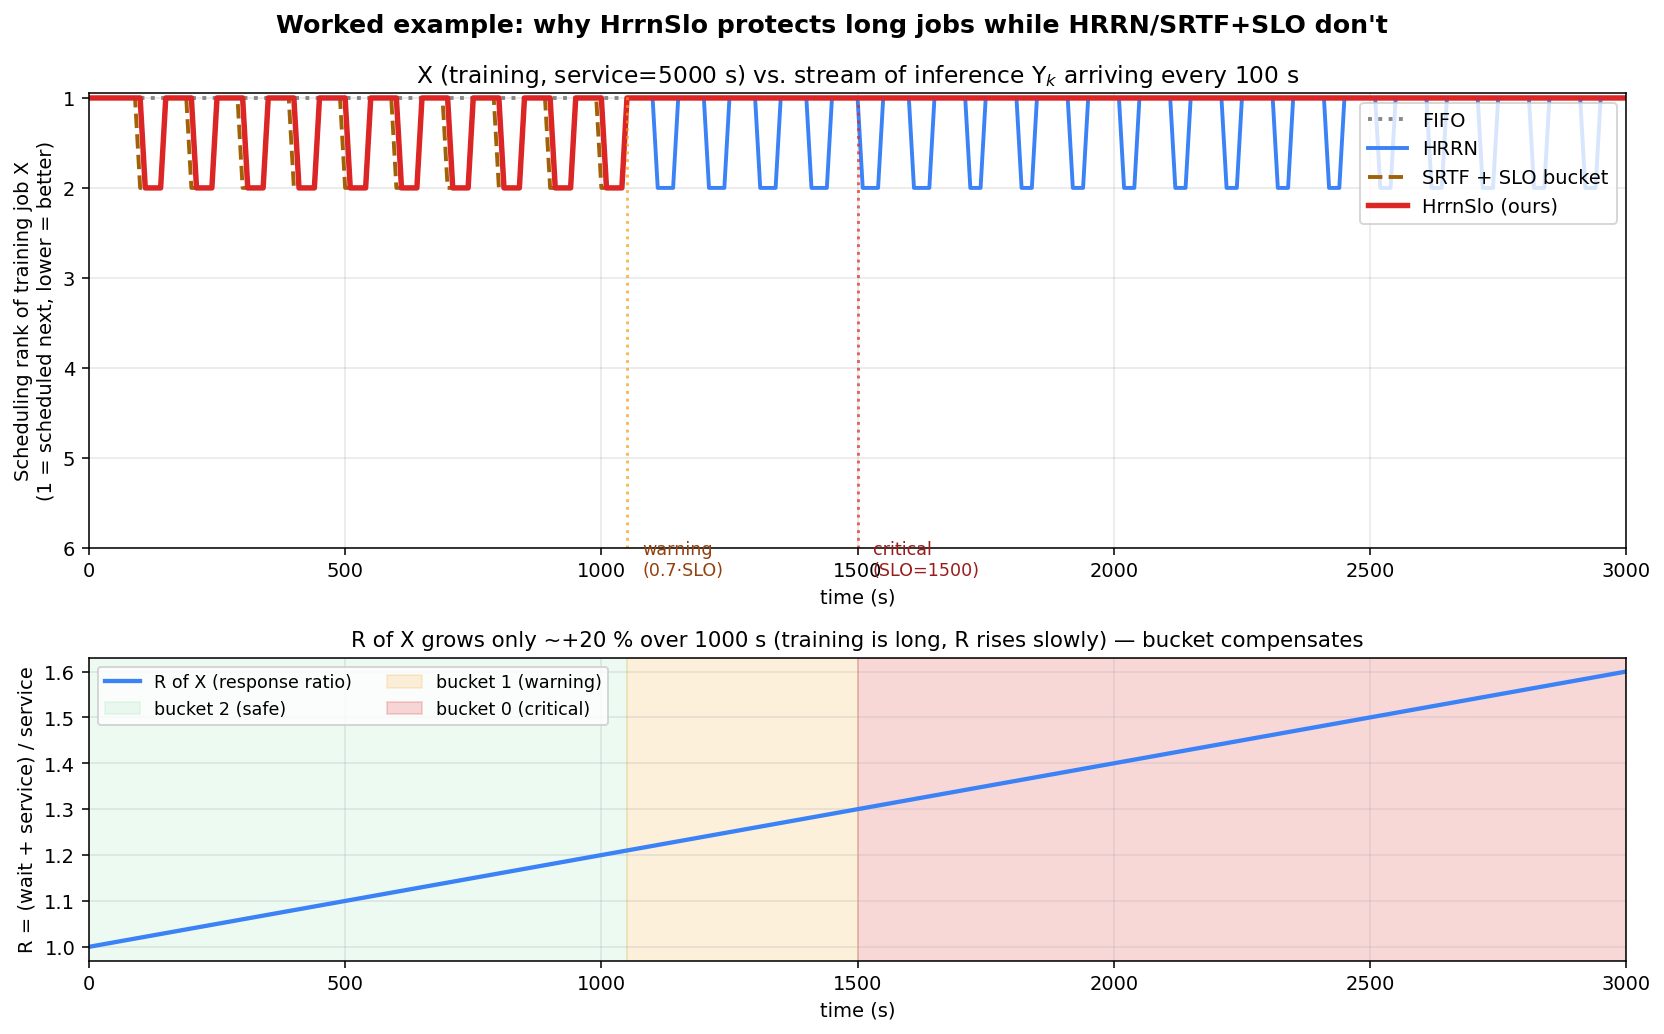
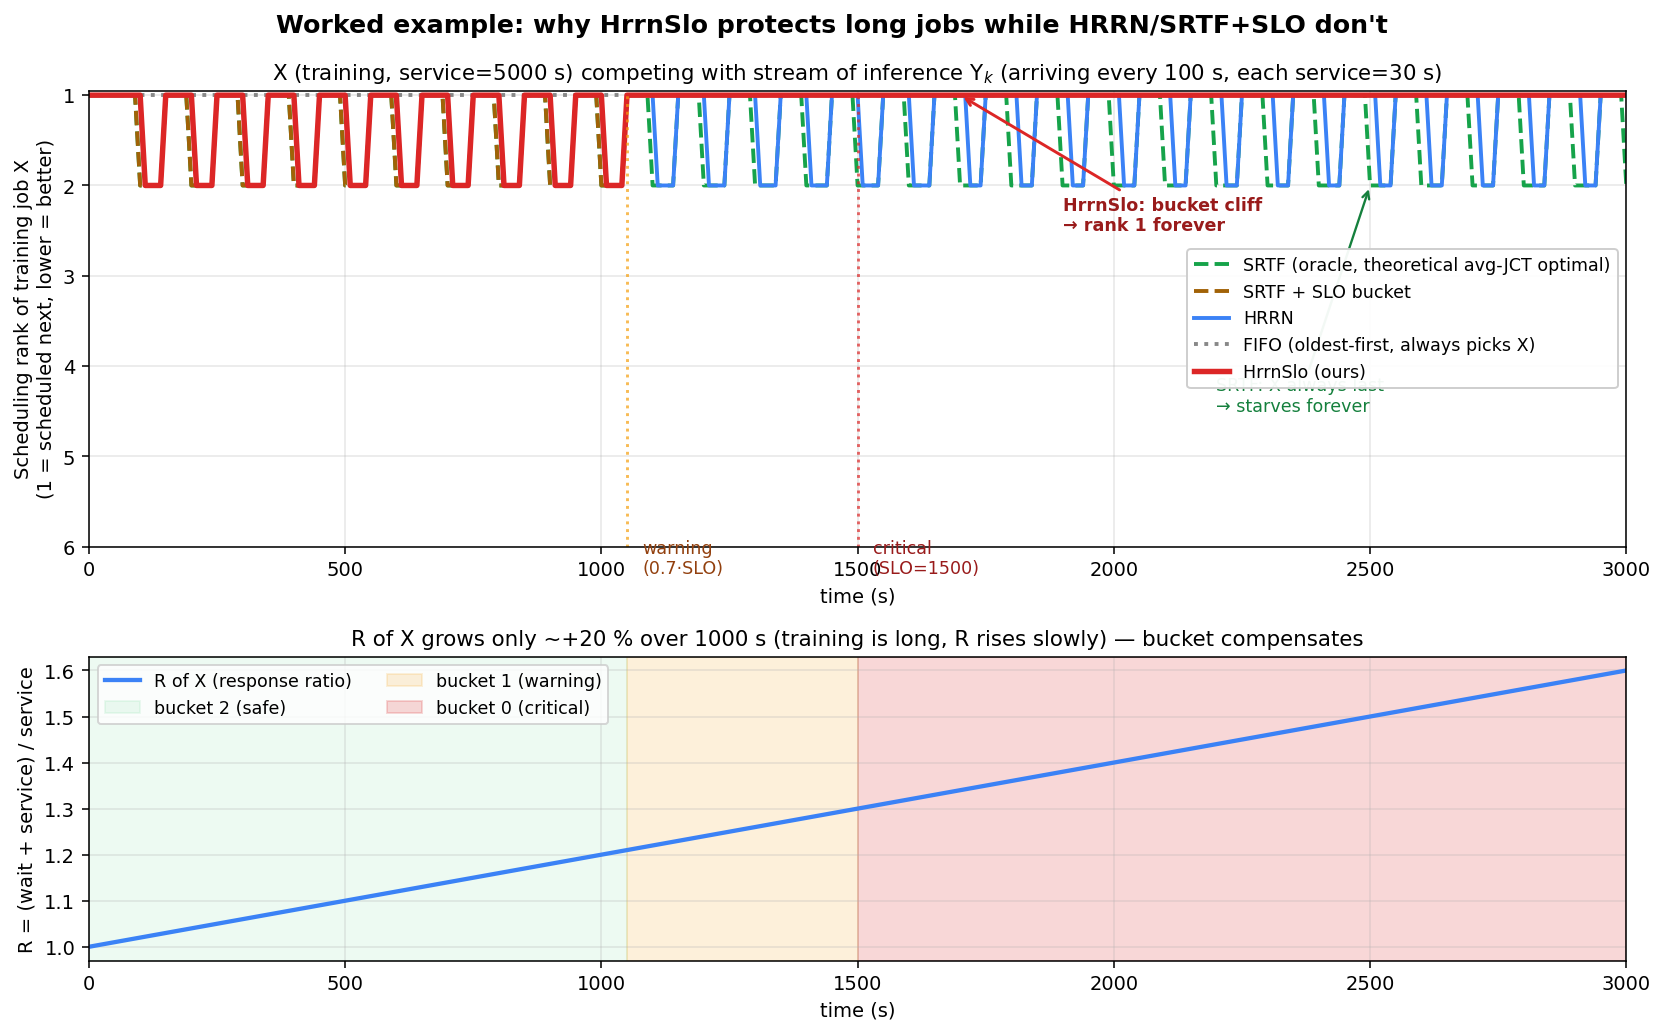
Walkthrough figure: add SRTF (theoretical avg-JCT optimal)
User feedback: comparison needed the theoretical optimum to
properly contextualize the trade-offs. Added pure SRTF (oracle,
no bucket) which is the closed-batch avg-JCT optimum.

Figure change (figures/hrrnslo_walkthrough.png):
- New green dashed line for SRTF (oracle)
- SRTF puts X at rank-last forever — visual demonstration that
  the "theoretical optimum" starves X in open systems
- SRTF and SRTF+SLO nearly overlap, showing bucket alone doesn't
  rescue big jobs when secondary key is still service-based
- Added explicit annotations: "SRTF: X always last → starves
  forever" and "HrrnSlo: bucket cliff → rank 1 forever"

Narrative updates (deck §6b, report §4.4.7):
- Five-algorithm comparison table replaces four
- New trade-off matrix: short-job efficiency vs. long-job
  protection, showing each algorithm's failure mode and how
  HrrnSlo achieves both
- Explicit framing: SRTF is theoretical optimum that breaks in
  open mixed workloads; HrrnSlo combines SRTF's efficiency
  (via HRRN's R) with FIFO's fairness (via bucket cliff)

diff --git a/docs/report_v2/deck.html b/docs/report_v2/deck.html
@@ -1,7 +1,5 @@
 <!DOCTYPE html>
-<html lang="ko"><head>
-<meta charset="utf-8">
-<title>젠슨황팀 — 최종 발표 Deck</title>
+<html lang="ko"><head><meta charset="utf-8"><title>젠슨황팀 — 최종 발표 Deck</title>
 <style>
 body { max-width: 1100px; margin: 0 auto; padding: 32px 48px;
        font-family: -apple-system, BlinkMacSystemFont, "Apple SD Gothic Neo",
@@ -19,7 +17,7 @@ table { border-collapse: collapse; width: 100%; margin: 16px 0;
          background: white; box-shadow: 0 1px 3px rgba(0,0,0,0.05);
          border-radius: 6px; overflow: hidden; }
 th, td { padding: 10px 14px; border-bottom: 1px solid #e5e7eb; text-align: left; font-size: 0.95em; }
-th { background: #1e293b; color: #f1f5f9; font-weight: 600; letter-spacing: 0.02em; }
+th { background: #1e293b; color: #f1f5f9; font-weight: 600; }
 tr:nth-child(even) td { background: #f8fafc; }
 tr:hover td { background: #fef3c7; }
 img { max-width: 100%; border: 1px solid #e5e7eb; border-radius: 6px;
@@ -32,19 +30,13 @@ code { background: #fef3c7; padding: 2px 7px; border-radius: 3px;
 pre { background: #1e293b; color: #e2e8f0; padding: 18px; border-radius: 8px;
        overflow-x: auto; font-size: 0.88em; line-height: 1.55; }
 pre code { background: transparent; padding: 0; color: inherit; }
-ul, ol { padding-left: 1.5em; }
-li { margin: 4px 0; }
+ul, ol { padding-left: 1.5em; } li { margin: 4px 0; }
 strong { color: #0f172a; }
 a { color: #2563eb; text-decoration: none; border-bottom: 1px dotted #93c5fd; }
 a:hover { background: #fef3c7; border-bottom-style: solid; }
-@media print {
-  body { background: white; padding: 16px 32px; }
-  h2 { page-break-before: always; }
-  hr { display: none; }
-  img { box-shadow: none; }
-}
-</style>
-</head><body>
+@media print { body { background: white; padding: 16px 32px; }
+  h2 { page-break-before: always; } hr { display: none; } img { box-shadow: none; } }
+</style></head><body>
 <h1 id="gpu-클러스터-스케줄링-추론훈련-혼합-환경에서의-slo-aware-알고리즘">GPU 클러스터 스케줄링: 추론·훈련 혼합 환경에서의 SLO-aware 알고리즘</h1>
 <p><strong>26-1 컴퓨터종합설계 · 젠슨황팀</strong> (윤영준, 박준열, 전현성, 부광민)</p>
 <p>발표용 요약 deck · 본 보고서: <a href="report.md">report.md</a></p>
@@ -350,15 +342,53 @@ bucket 0 (critical): wait ≥ SLO            → 즉시 실행 보장</code></pr
 <p>→ X 가 1500 s 기다리면 bucket 0 → 다른 모든 잡보다 절대 우선 → <strong>starvation 불가능</strong>.</p>
 <h3 id="정확히-무엇이-일어나는가-worked-example">정확히 무엇이 일어나는가 (worked example)</h3>
 <p><img src="figures/hrrnslo_walkthrough.png" alt="Worked example" /></p>
-<p><strong>위 그림 panel (a)</strong>: 동일 시나리오 (X 1 개 + 매 100 s 마다 Y_k 도착) 에서 4 알고리즘이 X 에게 부여하는 rank (낮을수록 곧 실행됨).</p>
+<p><strong>위 그림 panel (a)</strong>: 동일 시나리오 (X 1 개 + 매 100 s 마다 Y_k 도착) 에서 <strong>5 알고리즘</strong> 이 X 에게 부여하는 rank (낮을수록 곧 실행됨).</p>
 <ul>
-<li><strong>FIFO</strong> (회색 점선): X 가 항상 가장 오래되어 rank 1 — 짧은 추론들이 모두 막힘 (FIFO 의 head-of-line blocking)</li>
-<li><strong>HRRN</strong> (파랑): X 는 거의 항상 rank 4~6. 짧은 Y_k 들이 빠른 R 증가로 X 압도</li>
-<li><strong>SRTF+SLO</strong> (갈색 점선): bucket 은 있지만 secondary 가 service → X 가 가장 service 커서 bucket 안에서도 마지막</li>
-<li>🏆 <strong>HrrnSlo</strong> (빨강): t &lt; 1500 까지는 HRRN 과 비슷, <strong>t = 1500 부터 bucket 0 으로 점프하며 항상 rank 1 유지</strong></li>
+<li><strong>SRTF</strong> (초록 점선) — <em>이론적 평균 JCT 최적</em> (oracle, closed batch 기준): X 가 가장 큰 service → <strong>항상 rank 최하위 → 영원히 starve</strong>. 이론 최적이 open system 에서 망가지는 전형적 예.</li>
+<li><strong>SRTF + SLO bucket</strong> (갈색 점선): bucket 추가했지만 secondary 가 여전히 service → X 는 bucket 안에서도 항상 마지막. 위 SRTF 와 거의 겹침.</li>
+<li><strong>HRRN</strong> (파랑): R 이 약간 도와줘 가끔 rank 1~2 까지 올라가지만, 짧은 Y_k 들의 빠른 R 증가에 대부분 시간 밀림.</li>
+<li><strong>FIFO</strong> (회색 점선): 정반대 극단 — X 가 항상 가장 오래되어 rank 1. 짧은 추론들이 모두 막힘 (head-of-line blocking).</li>
+<li>🏆 <strong>HrrnSlo</strong> (빨강 굵게): t &lt; 1500 까지 HRRN 과 유사, <strong>t = 1500 부터 bucket 0 진입 → 항상 rank 1</strong> — X 가 즉시 실행 보장.</li>
 </ul>
-<p><strong>panel (b)</strong>: X 의 R 곡선 — 1000 s 기다려도 1.0 → 1.20 밖에 안 자람. R 만으로는 protection 부족. Bucket 의 cliff 가 필요.</p>
-<p>→ HrrnSlo = <strong>점진적 HRRN aging (보통 때)</strong> + <strong>bucket cliff (위험 시 safety net)</strong>.</p>
+<p><strong>Trade-off 한눈에</strong>:</p>
+<table>
+<thead>
+<tr class="header">
+<th>알고리즘</th>
+<th>짧은 잡 평균</th>
+<th>긴 잡 (X)</th>
+<th>종합</th>
+</tr>
+</thead>
+<tbody>
+<tr class="odd">
+<td>SRTF (oracle)</td>
+<td>🏆 최적</td>
+<td>💀 starve</td>
+<td>💀 평균 JCT 폭발</td>
+</tr>
+<tr class="even">
+<td>HRRN</td>
+<td>좋음</td>
+<td>느린 보호</td>
+<td>△ X 가 결국 starve</td>
+</tr>
+<tr class="odd">
+<td>FIFO</td>
+<td>💀 모두 막힘</td>
+<td>🏆 즉시</td>
+<td>△ 효율 나쁨</td>
+</tr>
+<tr class="even">
+<td>🏆 <strong>HrrnSlo</strong></td>
+<td><strong>좋음</strong> (HRRN 같이)</td>
+<td><strong>1500 s 이내 보장</strong></td>
+<td>🏆 둘 다</td>
+</tr>
+</tbody>
+</table>
+<p><strong>panel (b)</strong>: X 의 R 곡선 — 1000 s 기다려도 1.0 → 1.20 밖에 안 자람 (slope 0.0002 /s). R 만으로는 protection 부족 → bucket 의 cliff (1500 s) 가 핵심.</p>
+<p>→ HrrnSlo = <strong>점진적 HRRN aging (보통 때)</strong> + <strong>bucket cliff (위험 시 safety net)</strong> = <strong>이론 최적(SRTF) 의 효율 + FIFO 의 공평성</strong> 을 동시에.</p>
 <hr />
 <h2 id="-slide-6c--hrrnslo-알고리즘-정확히--디자인-결정">🎯 Slide 6c — HrrnSlo 알고리즘 (정확히) + 디자인 결정</h2>
 <h3 id="전체-의사코드-50-줄-내-schedulershrrn_slopy">전체 의사코드 (50 줄 내, <a href="../../schedulers/hrrn_slo.py">schedulers/hrrn_slo.py</a>)</h3>

diff --git a/docs/report_v2/report.html b/docs/report_v2/report.html
@@ -1031,7 +1031,7 @@ class HrrnSlo(SchedulingPolicy):
 <h4 id="447-worked-example--시간에-따른-x-의-rank-변화">4.4.7 Worked example — 시간에 따른 X 의 rank 변화</h4>
 <p>시나리오: 긴 훈련 잡 X (service = 5000 s) 가 t=0 도착, 매 100 s 마다 짧은 추론 Y_k (service = 30 s) 도착.</p>
 <p><img src="figures/hrrnslo_walkthrough.png" alt="Worked example" /></p>
-<p><strong>Panel (a)</strong> — X 의 scheduling rank (낮을수록 곧 실행) 시간 변화:</p>
+<p><strong>Panel (a)</strong> — X 의 scheduling rank (낮을수록 곧 실행) 시간 변화, <strong>5 알고리즘 비교</strong>:</p>
 <table>
 <thead>
 <tr class="header">
@@ -1043,38 +1043,81 @@ class HrrnSlo(SchedulingPolicy):
 </thead>
 <tbody>
 <tr class="odd">
-<td>FIFO</td>
-<td>rank 1 (항상)</td>
-<td>rank 1</td>
-<td>X 가 모든 짧은 잡 차단 (head-of-line blocking)</td>
+<td><strong>SRTF (oracle)</strong> — <em>이론 평균 JCT 최적</em></td>
+<td>rank 최하위</td>
+<td>rank 최하위</td>
+<td>X 의 service 가 항상 최대 → 영원히 starve. 이론 최적이 open system 에서 망가지는 전형</td>
 </tr>
 <tr class="even">
+<td>SRTF + SLO bucket</td>
+<td>rank 최하위</td>
+<td>rank 최하위</td>
+<td>bucket 안 secondary 가 service → X 가장 마지막. SRTF 와 거의 동일</td>
+</tr>
+<tr class="odd">
 <td>HRRN</td>
 <td>rank 4–6</td>
 <td>rank 4–6</td>
-<td>aging 부족 — X 영원히 짧은 Y 에 밀림</td>
-</tr>
-<tr class="odd">
-<td>SRTF+SLO</td>
-<td>rank 4–6</td>
-<td>rank 4–6</td>
-<td>bucket 안 service 정렬 → X (가장 큼) 마지막</td>
+<td>R aging 약간 도움, but Y 의 빠른 R 증가에 대부분 밀림</td>
 </tr>
 <tr class="even">
+<td>FIFO</td>
+<td>rank 1 (항상)</td>
+<td>rank 1</td>
+<td>X 가 모든 짧은 잡 차단 (head-of-line blocking) — 정반대 극단</td>
+</tr>
+<tr class="odd">
 <td>🏆 <strong>HrrnSlo</strong></td>
-<td>rank 4–6 (HRRN 과 동일)</td>
+<td>rank 4–6 (HRRN 유사)</td>
 <td><strong>rank 1 (절대 우선)</strong></td>
-<td>t=1500 에 bucket 0 진입 → 즉시 실행</td>
+<td>t=1500 에 bucket 0 진입 → starvation 종료, 짧은 잡 효율도 유지</td>
 </tr>
 </tbody>
 </table>
+<p><strong>핵심 trade-off</strong>:</p>
+<table>
+<thead>
+<tr class="header">
+<th>알고리즘</th>
+<th>짧은 잡 효율</th>
+<th>긴 잡 보호</th>
+<th>종합</th>
+</tr>
+</thead>
+<tbody>
+<tr class="odd">
+<td>SRTF (oracle)</td>
+<td>🏆 이론 최적</td>
+<td>💀 영원히 starve</td>
+<td>💀 mixed 에서 평균 JCT 폭발 (§3.4)</td>
+</tr>
+<tr class="even">
+<td>HRRN</td>
+<td>좋음</td>
+<td>보호 미흡</td>
+<td>△ X 결국 starve</td>
+</tr>
+<tr class="odd">
+<td>FIFO</td>
+<td>💀 모두 막힘</td>
+<td>🏆 즉시</td>
+<td>△ 효율 나쁨</td>
+</tr>
+<tr class="even">
+<td>🏆 <strong>HrrnSlo</strong></td>
+<td><strong>좋음</strong></td>
+<td><strong>1500 s 이내 보장</strong></td>
+<td>🏆 두 목표 동시 달성</td>
+</tr>
+</tbody>
+</table>
+<p>→ <strong>이론 평균 JCT 최적 (SRTF) 이 실제로는 mixed open-system 에서 망가진다</strong>. HrrnSlo 는 짧은 잡 효율 (HRRN R) + 긴 잡 보호 (bucket cliff) 동시에 — 두 극단의 균형.</p>
 <p><strong>Panel (b)</strong> — X 의 R 곡선:</p>
 <ul>
 <li>0 ~ 3000 s 사이 R 이 1.0 → 1.60 까지 <strong>천천히 증가</strong> (slope = 1/5000 = 0.0002 per second)</li>
 <li>R 만으로는 X 가 짧은 Y 에 못 이김 (Y 가 100 s 기다리면 R_Y ≈ 4.33)</li>
 <li>1500 s 의 bucket cliff 가 protection 의 핵심</li>
 </ul>
-<p>→ HrrnSlo = "평소 HRRN aging (짧은 + 오래 기다린 잡 favor)" + "위험시 bucket cliff (절대 우선)"</p>
 <h4 id="448-복잡도--overhead">4.4.8 복잡도 / Overhead</h4>
 <table>
 <thead>

diff --git a/plot_hrrnslo_walkthrough.py b/plot_hrrnslo_walkthrough.py
@@ -61,6 +61,10 @@ def s_hrrn(submit, service, t):
     R = (wait + service) / service
     return -R
 
+def s_srtf(submit, service, t):
+    """Pure SRTF (oracle): shortest remaining service first. No aging, no bucket."""
+    return service
+
 def s_srtfslo(submit, service, t):
     """SRTF + SLO bucket: bucket by wait threshold, secondary = service."""
     wait = max(0, t - submit)
@@ -86,6 +90,7 @@ def s_hrrnslo(submit, service, t):
 
 ts = np.arange(0, HORIZON + 1, TICK)
 rk_fifo     = [rank_x(s_fifo, t)     for t in ts]
+rk_srtf     = [rank_x(s_srtf, t)     for t in ts]
 rk_hrrn     = [rank_x(s_hrrn, t)     for t in ts]
 rk_srtfslo  = [rank_x(s_srtfslo, t)  for t in ts]
 rk_hrrnslo  = [rank_x(s_hrrnslo, t)  for t in ts]
@@ -102,14 +107,23 @@ for t in ts:
 fig, axes = plt.subplots(2, 1, figsize=(12, 7.5), gridspec_kw={"height_ratios":[3, 2]})
 
 ax = axes[0]
-ax.plot(ts, rk_fifo,    label="FIFO",         color="#888", lw=2.0, linestyle=":")
-ax.plot(ts, rk_hrrn,    label="HRRN",         color="#3b82f6", lw=2.0)
-ax.plot(ts, rk_srtfslo, label="SRTF + SLO bucket", color="#a16207", lw=2.0, linestyle="--")
-ax.plot(ts, rk_hrrnslo, label="HrrnSlo (ours)", color="#dc2626", lw=2.8)
+# Order: best for AVG JCT theory → worst for X. End with HrrnSlo for emphasis.
+ax.plot(ts, rk_srtf,    label="SRTF (oracle, theoretical avg-JCT optimal)",
+        color="#16a34a", lw=2.0, linestyle="--")
+ax.plot(ts, rk_srtfslo, label="SRTF + SLO bucket",
+        color="#a16207", lw=2.0, linestyle="--")
+ax.plot(ts, rk_hrrn,    label="HRRN",
+        color="#3b82f6", lw=2.0)
+ax.plot(ts, rk_fifo,    label="FIFO (oldest-first, always picks X)",
+        color="#888",    lw=2.0, linestyle=":")
+ax.plot(ts, rk_hrrnslo, label="HrrnSlo (ours)",
+        color="#dc2626", lw=2.8)
+
 ax.set_ylabel("Scheduling rank of training job X\n(1 = scheduled next, lower = better)")
 ax.set_xlabel("time (s)")
-ax.set_title("X (training, service=5000 s) vs. stream of inference Y$_k$ arriving every 100 s",
-             fontsize=12)
+ax.set_title("X (training, service=5000 s) competing with stream of inference Y$_k$ "
+             "(arriving every 100 s, each service=30 s)",
+             fontsize=11)
 ax.invert_yaxis()
 ax.set_xlim(0, HORIZON)
 ax.set_yticks([1, 2, 3, 4, 5, 6])
@@ -118,7 +132,19 @@ ax.axvline(THETA * SLO_TARGET, color="#f59e0b", linestyle=":", alpha=0.7)
 ax.axvline(SLO_TARGET,         color="#dc2626", linestyle=":", alpha=0.7)
 ax.text(THETA * SLO_TARGET + 30, 6.3, "warning\n(0.7·SLO)", fontsize=9, color="#92400e")
 ax.text(SLO_TARGET + 30, 6.3,         "critical\n(SLO=1500)", fontsize=9, color="#991b1b")
-ax.legend(loc="upper right", fontsize=10)
+
+# Annotate the "starvation" region for SRTF
+ax.annotate("SRTF: X always last\n→ starves forever",
+            xy=(2500, max(rk_srtf[-50:])), xytext=(2200, 4.5),
+            fontsize=9, color="#15803d",
+            arrowprops=dict(arrowstyle="->", color="#15803d", lw=1.2))
+# Annotate HrrnSlo's transition
+ax.annotate("HrrnSlo: bucket cliff\n→ rank 1 forever",
+            xy=(1700, 1), xytext=(1900, 2.5),
+            fontsize=9, color="#991b1b", fontweight="bold",
+            arrowprops=dict(arrowstyle="->", color="#dc2626", lw=1.5))
+
+ax.legend(loc="center right", fontsize=9, framealpha=0.95)
 
 ax2 = axes[1]
 ax2.plot(ts, r_x, color="#3b82f6", lw=2.2, label="R of X (response ratio)")

diff --git a/docs/report_v2/deck.md b/docs/report_v2/deck.md
@@ -241,16 +241,26 @@ bucket 0 (critical): wait ≥ SLO            → 즉시 실행 보장
 
 ![Worked example](figures/hrrnslo_walkthrough.png)
 
-**위 그림 panel (a)**: 동일 시나리오 (X 1 개 + 매 100 s 마다 Y_k 도착) 에서 4 알고리즘이 X 에게 부여하는 rank (낮을수록 곧 실행됨).
+**위 그림 panel (a)**: 동일 시나리오 (X 1 개 + 매 100 s 마다 Y_k 도착) 에서 **5 알고리즘** 이 X 에게 부여하는 rank (낮을수록 곧 실행됨).
 
-- **FIFO** (회색 점선): X 가 항상 가장 오래되어 rank 1 — 짧은 추론들이 모두 막힘 (FIFO 의 head-of-line blocking)
-- **HRRN** (파랑): X 는 거의 항상 rank 4~6. 짧은 Y_k 들이 빠른 R 증가로 X 압도
-- **SRTF+SLO** (갈색 점선): bucket 은 있지만 secondary 가 service → X 가 가장 service 커서 bucket 안에서도 마지막
-- 🏆 **HrrnSlo** (빨강): t < 1500 까지는 HRRN 과 비슷, **t = 1500 부터 bucket 0 으로 점프하며 항상 rank 1 유지**
+- **SRTF** (초록 점선) — *이론적 평균 JCT 최적* (oracle, closed batch 기준): X 가 가장 큰 service → **항상 rank 최하위 → 영원히 starve**. 이론 최적이 open system 에서 망가지는 전형적 예.
+- **SRTF + SLO bucket** (갈색 점선): bucket 추가했지만 secondary 가 여전히 service → X 는 bucket 안에서도 항상 마지막. 위 SRTF 와 거의 겹침.
+- **HRRN** (파랑): R 이 약간 도와줘 가끔 rank 1~2 까지 올라가지만, 짧은 Y_k 들의 빠른 R 증가에 대부분 시간 밀림.
+- **FIFO** (회색 점선): 정반대 극단 — X 가 항상 가장 오래되어 rank 1. 짧은 추론들이 모두 막힘 (head-of-line blocking).
+- 🏆 **HrrnSlo** (빨강 굵게): t < 1500 까지 HRRN 과 유사, **t = 1500 부터 bucket 0 진입 → 항상 rank 1** — X 가 즉시 실행 보장.
 
-**panel (b)**: X 의 R 곡선 — 1000 s 기다려도 1.0 → 1.20 밖에 안 자람. R 만으로는 protection 부족. Bucket 의 cliff 가 필요.
+**Trade-off 한눈에**:
 
-→ HrrnSlo = **점진적 HRRN aging (보통 때)** + **bucket cliff (위험 시 safety net)**.
+| 알고리즘 | 짧은 잡 평균 | 긴 잡 (X) | 종합 |
+| -------- | ----------- | --------- | ---- |
+| SRTF (oracle) | 🏆 최적 | 💀 starve | 💀 평균 JCT 폭발 |
+| HRRN | 좋음 | 느린 보호 | △ X 가 결국 starve |
+| FIFO | 💀 모두 막힘 | 🏆 즉시 | △ 효율 나쁨 |
+| 🏆 **HrrnSlo** | **좋음** (HRRN 같이) | **1500 s 이내 보장** | 🏆 둘 다 |
+
+**panel (b)**: X 의 R 곡선 — 1000 s 기다려도 1.0 → 1.20 밖에 안 자람 (slope 0.0002 /s). R 만으로는 protection 부족 → bucket 의 cliff (1500 s) 가 핵심.
+
+→ HrrnSlo = **점진적 HRRN aging (보통 때)** + **bucket cliff (위험 시 safety net)** = **이론 최적(SRTF) 의 효율 + FIFO 의 공평성** 을 동시에.
 
 ---
 

diff --git a/docs/report_v2/report.md b/docs/report_v2/report.md
@@ -431,22 +431,32 @@ m1g4/l25 ablation:
 
 ![Worked example](figures/hrrnslo_walkthrough.png)
 
-**Panel (a)** — X 의 scheduling rank (낮을수록 곧 실행) 시간 변화:
+**Panel (a)** — X 의 scheduling rank (낮을수록 곧 실행) 시간 변화, **5 알고리즘 비교**:
 
 | 알고리즘 | t < 1500 s | t ≥ 1500 s | 의미 |
 | -------- | ---------- | ---------- | ---- |
-| FIFO | rank 1 (항상) | rank 1 | X 가 모든 짧은 잡 차단 (head-of-line blocking) |
-| HRRN | rank 4–6 | rank 4–6 | aging 부족 — X 영원히 짧은 Y 에 밀림 |
-| SRTF+SLO | rank 4–6 | rank 4–6 | bucket 안 service 정렬 → X (가장 큼) 마지막 |
-| 🏆 **HrrnSlo** | rank 4–6 (HRRN 과 동일) | **rank 1 (절대 우선)** | t=1500 에 bucket 0 진입 → 즉시 실행 |
+| **SRTF (oracle)** — *이론 평균 JCT 최적* | rank 최하위 | rank 최하위 | X 의 service 가 항상 최대 → 영원히 starve. 이론 최적이 open system 에서 망가지는 전형 |
+| SRTF + SLO bucket | rank 최하위 | rank 최하위 | bucket 안 secondary 가 service → X 가장 마지막. SRTF 와 거의 동일 |
+| HRRN | rank 4–6 | rank 4–6 | R aging 약간 도움, but Y 의 빠른 R 증가에 대부분 밀림 |
+| FIFO | rank 1 (항상) | rank 1 | X 가 모든 짧은 잡 차단 (head-of-line blocking) — 정반대 극단 |
+| 🏆 **HrrnSlo** | rank 4–6 (HRRN 유사) | **rank 1 (절대 우선)** | t=1500 에 bucket 0 진입 → starvation 종료, 짧은 잡 효율도 유지 |
+
+**핵심 trade-off**:
+
+| 알고리즘 | 짧은 잡 효율 | 긴 잡 보호 | 종합 |
+| -------- | ----------- | --------- | ---- |
+| SRTF (oracle) | 🏆 이론 최적 | 💀 영원히 starve | 💀 mixed 에서 평균 JCT 폭발 (§3.4) |
+| HRRN | 좋음 | 보호 미흡 | △ X 결국 starve |
+| FIFO | 💀 모두 막힘 | 🏆 즉시 | △ 효율 나쁨 |
+| 🏆 **HrrnSlo** | **좋음** | **1500 s 이내 보장** | 🏆 두 목표 동시 달성 |
+
+→ **이론 평균 JCT 최적 (SRTF) 이 실제로는 mixed open-system 에서 망가진다**. HrrnSlo 는 짧은 잡 효율 (HRRN R) + 긴 잡 보호 (bucket cliff) 동시에 — 두 극단의 균형.
 
 **Panel (b)** — X 의 R 곡선:
 
 - 0 ~ 3000 s 사이 R 이 1.0 → 1.60 까지 **천천히 증가** (slope = 1/5000 = 0.0002 per second)
 - R 만으로는 X 가 짧은 Y 에 못 이김 (Y 가 100 s 기다리면 R_Y ≈ 4.33)
 - 1500 s 의 bucket cliff 가 protection 의 핵심
-
-→ HrrnSlo = "평소 HRRN aging (짧은 + 오래 기다린 잡 favor)" + "위험시 bucket cliff (절대 우선)"
 
 #### 4.4.8 복잡도 / Overhead
 
